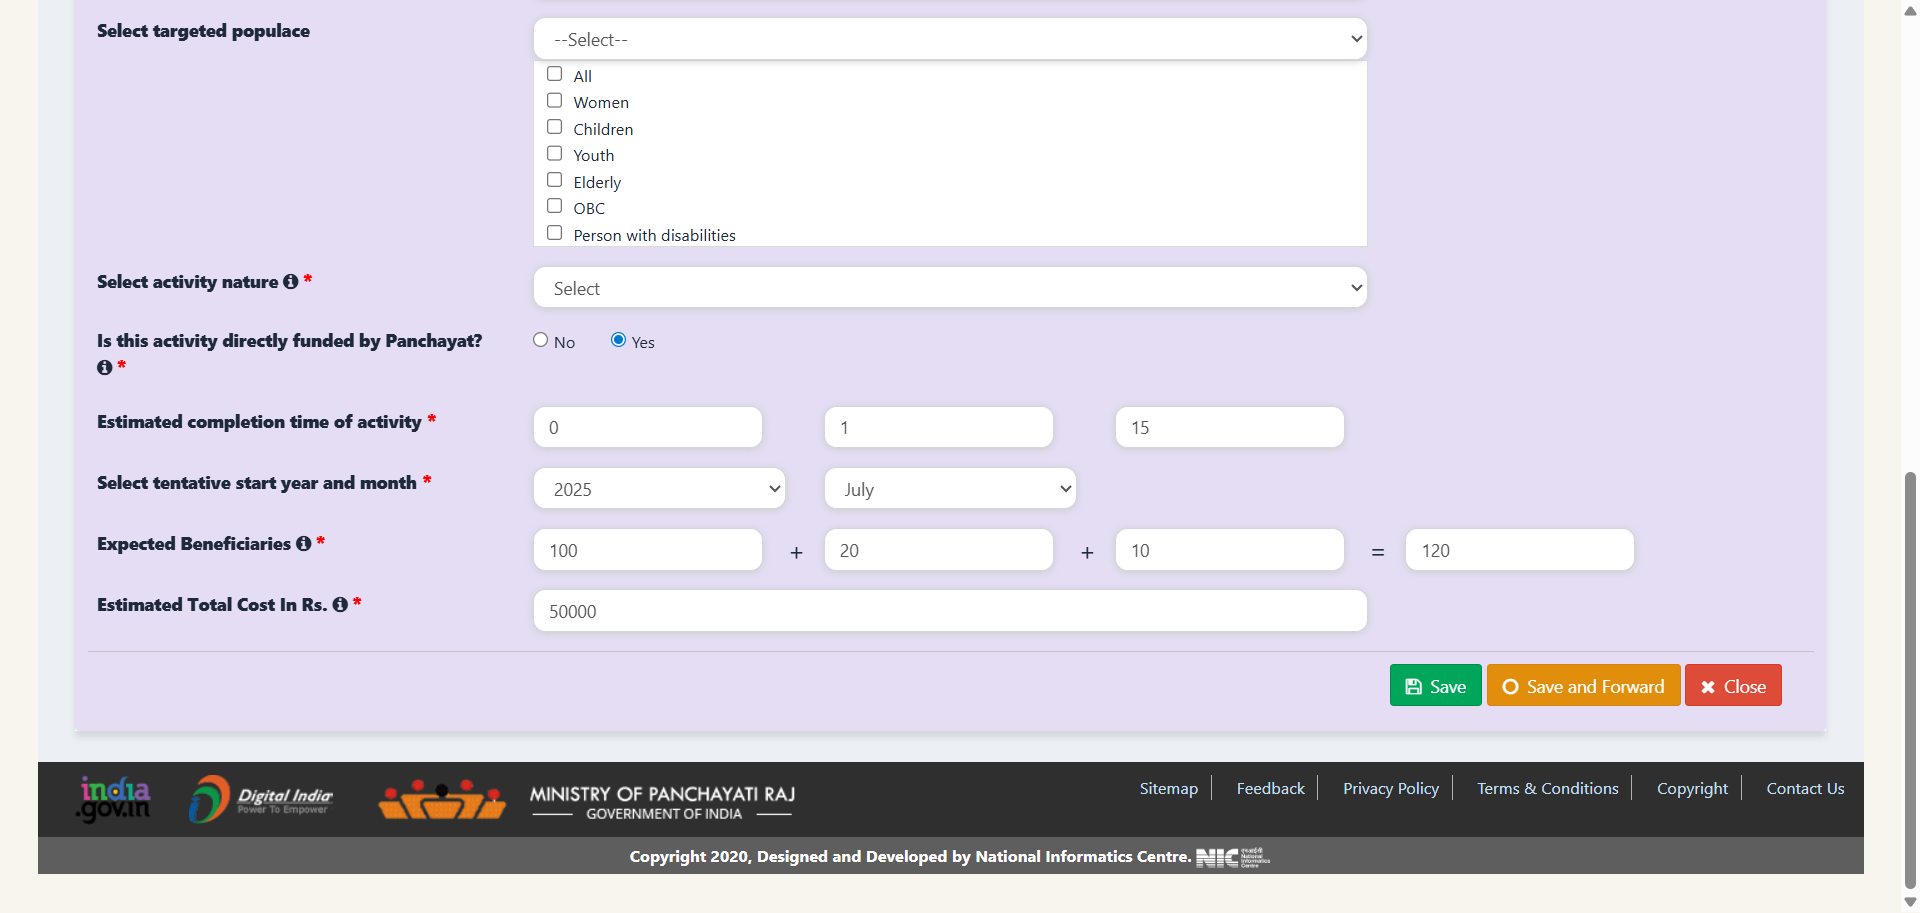
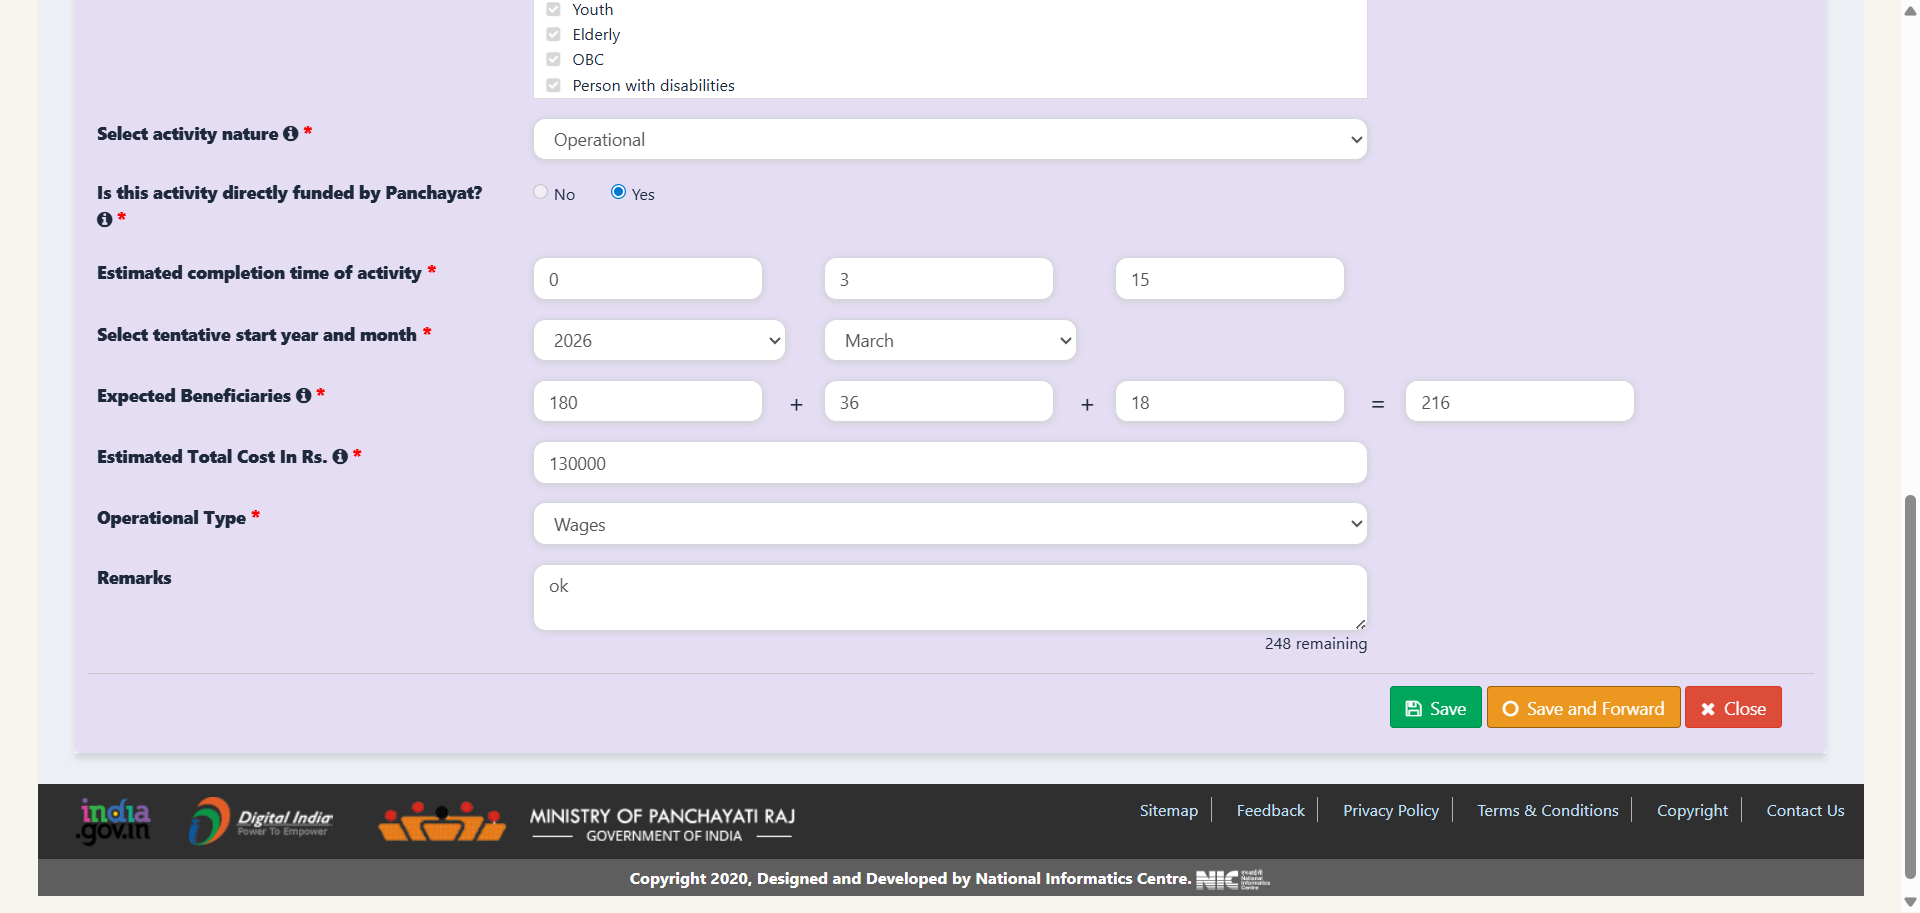
Enhance form filler functionality with asset details handling and update related logs and screenshots

diff --git a/src/form_filler.py b/src/form_filler.py
@@ -231,6 +231,125 @@ class FormFiller:
         self.shots_dir = Path(screenshots_dir)
         self.shots_dir.mkdir(parents=True, exist_ok=True)
 
+    def _get_optional_value(self, record: dict, *keys: str) -> str:
+        for key in keys:
+            value = _v(record, key)
+            if value:
+                return value
+        return ""
+
+    def _select_value(self, selector: str, value: str) -> None:
+        if not value:
+            return
+        try:
+            select_by_text(self.page, selector, value)
+        except Exception:
+            try:
+                self.page.locator(selector).select_option(value=value)
+            except Exception:
+                pass
+
+    def _fill_asset_popup(self, record: dict) -> None:
+        """Handle the dynamic Asset Details popup if the Activity Output is Asset."""
+        output_value = self._get_optional_value(record, "activity_output", "output_type", "asset_output").strip().lower()
+        if output_value and output_value not in {"asset", "assets", "101", "yes", "true"}:
+            return
+
+        radio = self.page.locator("#outputActvityAstId101")
+        if radio.count() == 0:
+            return
+
+        try:
+            radio.first.wait_for(state="visible", timeout=SELECTOR_TIMEOUT)
+            radio.first.click()
+        except Exception:
+            self.page.evaluate("document.getElementById('outputActvityAstId101').click()")
+
+        self.page.evaluate("document.getElementById('ouptputTypId').value = '101'")
+        self.page.evaluate("""
+            if (window.showAssetDetailsPopup) {
+                window.showAssetDetailsPopup('addassetdtlsDiv101', 'outputActvityAstId101');
+            } else {
+                const modal = document.getElementById('showAssetDetailsPopup');
+                if (modal) {
+                    modal.style.display = 'block';
+                    modal.classList.add('in');
+                    document.body.classList.add('modal-open');
+                }
+            }
+        """)
+        self.page.wait_for_timeout(800)
+
+        modal = self.page.locator("#showAssetDetailsPopup")
+        if not modal.count():
+            return
+
+        try:
+            modal.wait_for(state="visible", timeout=SELECTOR_TIMEOUT)
+        except Exception:
+            pass
+
+        asset_type = self._get_optional_value(record, "asset_type")
+        if asset_type:
+            self._select_value("#showAssetDetailsPopup #astTypId", asset_type)
+        else:
+            self._select_value("#showAssetDetailsPopup #astTypId", "Immovable")
+        _wait_idle(self.page)
+
+        asset_category = self._get_optional_value(record, "asset_category")
+        if asset_category:
+            self._select_value("#showAssetDetailsPopup #assetCategoryId", asset_category)
+        else:
+            self._select_value("#showAssetDetailsPopup #assetCategoryId", "")
+        _wait_idle(self.page)
+
+        asset_sub_category = self._get_optional_value(record, "asset_sub_category")
+        if asset_sub_category:
+            self._select_value("#showAssetDetailsPopup #astSubCtgryId", asset_sub_category)
+        else:
+            self._select_value("#showAssetDetailsPopup #astSubCtgryId", "")
+        _wait_idle(self.page)
+
+        total_units = self._get_optional_value(record, "asset_total_units", "total_units")
+        if total_units:
+            safe_fill(self.page, "#showAssetDetailsPopup #totalUntId", total_units)
+        else:
+            safe_fill(self.page, "#showAssetDetailsPopup #totalUntId", "1")
+
+        unit_cost = self._get_optional_value(record, "asset_unit_cost", "unit_cost")
+        if unit_cost:
+            safe_fill(self.page, "#showAssetDetailsPopup #untCostId", unit_cost)
+        else:
+            safe_fill(self.page, "#showAssetDetailsPopup #untCostId", "1000")
+
+        coverage = self._get_optional_value(record, "asset_coverage_area", "coverage_area").strip().lower()
+        if coverage in {"a", "area", "1", "yes", "true"}:
+            self.page.locator("#showAssetDetailsPopup #assetCovgeAreaId").check()
+        else:
+            self.page.locator("#showAssetDetailsPopup #assetCovgeAreaId").check()
+
+        for source_id, move_btn_selector in [
+            ("#showAssetDetailsPopup #avlPlanUnitsBPId", "#showAssetDetailsPopup #selectedPlanUnitsForBPId input.btn-warning[value='>>']"),
+            ("#showAssetDetailsPopup #avlPlanUnitsGPId", "#showAssetDetailsPopup #selectedPlanUnitsForGPId input.btn-warning[value='>>']"),
+            ("#showAssetDetailsPopup #avlPlanUnitsVillId", "#showAssetDetailsPopup #selectedPlanUnitsForVillId input.btn-warning[value='>>']"),
+        ]:
+            select = self.page.locator(source_id)
+            if not select.count():
+                continue
+            options = select.locator("option")
+            if options.count() == 0:
+                continue
+            values = [opt.get_attribute("value") or "" for opt in options.all() if (opt.get_attribute("value") or "")]
+            if values:
+                try:
+                    select.select_option(values=values[:1])
+                    self.page.locator(move_btn_selector).first.click()
+                except Exception:
+                    pass
+
+        self.page.locator("#showAssetDetailsPopup .modal-footer .btn-success").first.click()
+        self.page.wait_for_timeout(500)
+
     # ── Public entry point ────────────────────────────────────────────────────
 
     def fill_form(self, record: dict, row_index: int) -> dict[str, str]:
@@ -345,7 +464,13 @@ class FormFiller:
         attempt("estimated_total_cost",
                 lambda: safe_fill(p, "#totalCostId", _v(record, "estimated_total_cost")))
 
-        # ── 15. Form submission ───────────────────────────────────────────────
+        # ── 15. Activity Output / Asset Details popup ────────────────────────
+        try:
+            self._fill_asset_popup(record)
+        except Exception as exc:
+            logger.warning("row=%d activity_output_popup %s", row_index, str(exc)[:200])
+
+        # ── 16. Form submission ───────────────────────────────────────────────
         app_number = ""
         txn_id     = ""
 
